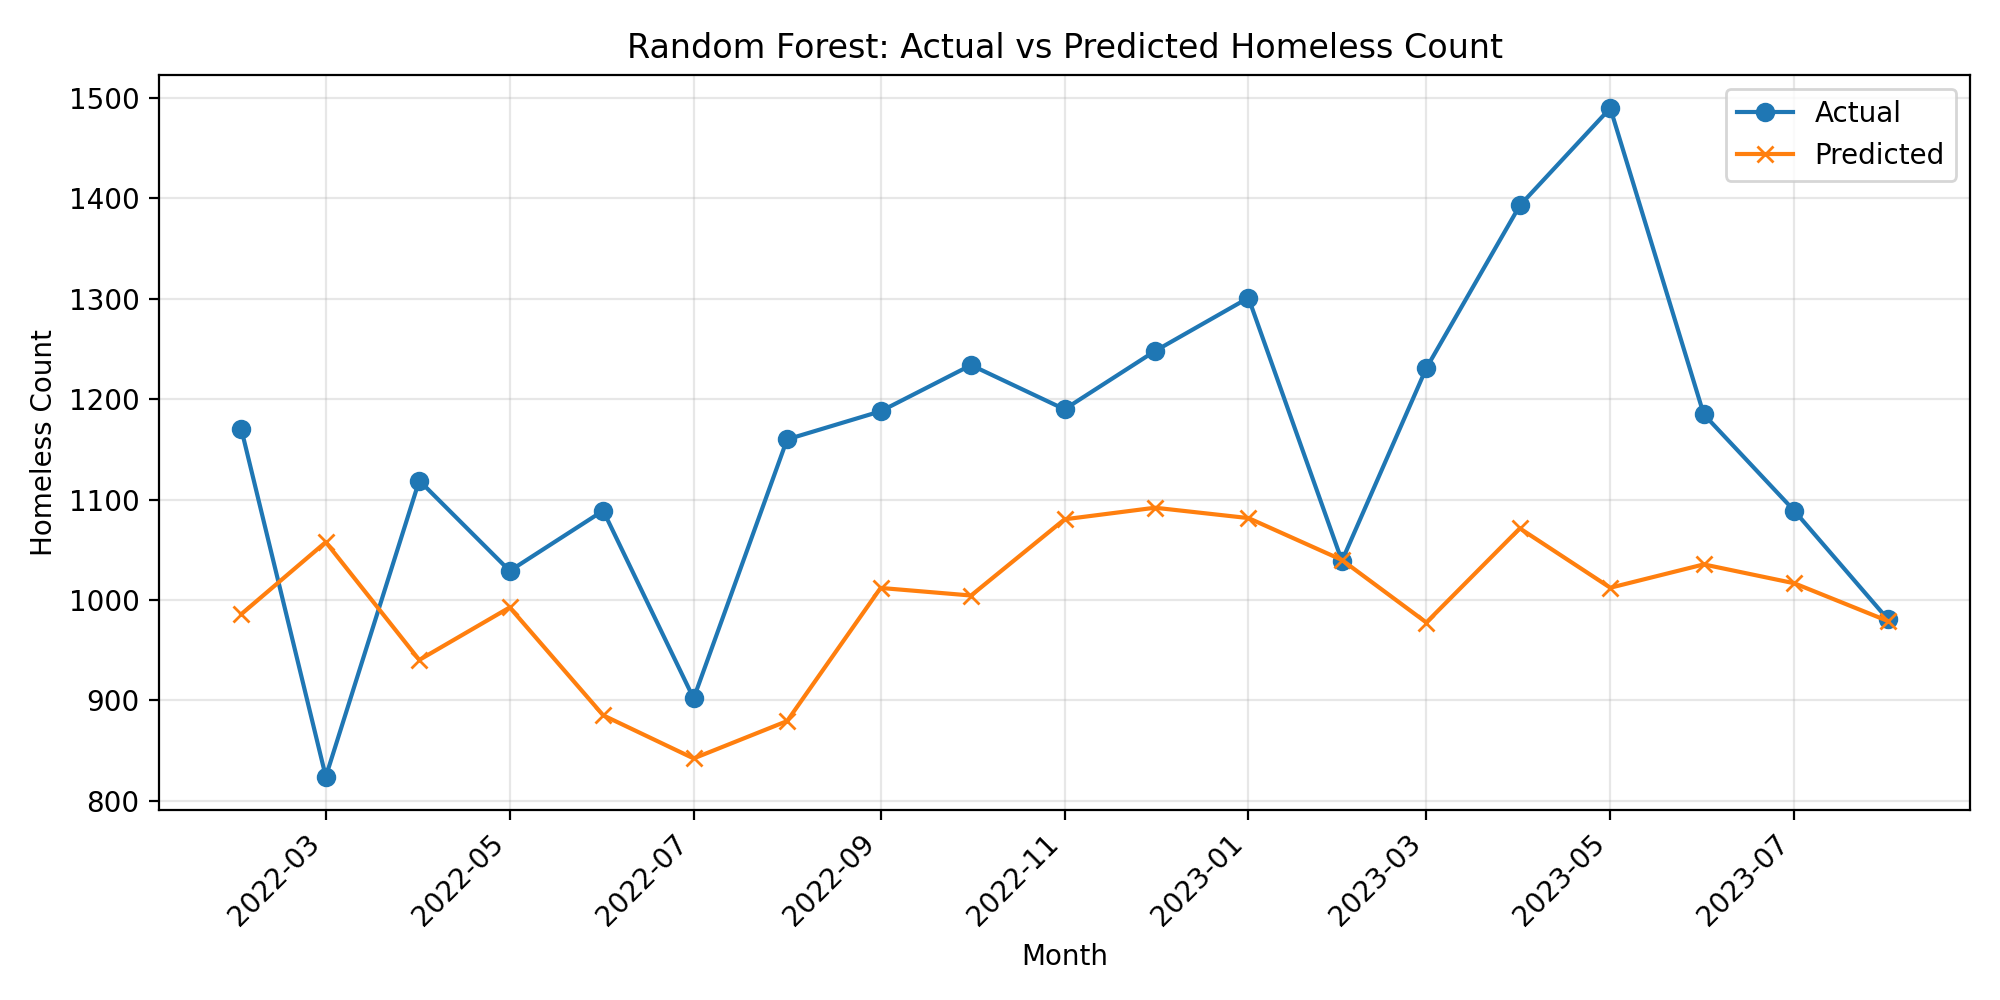
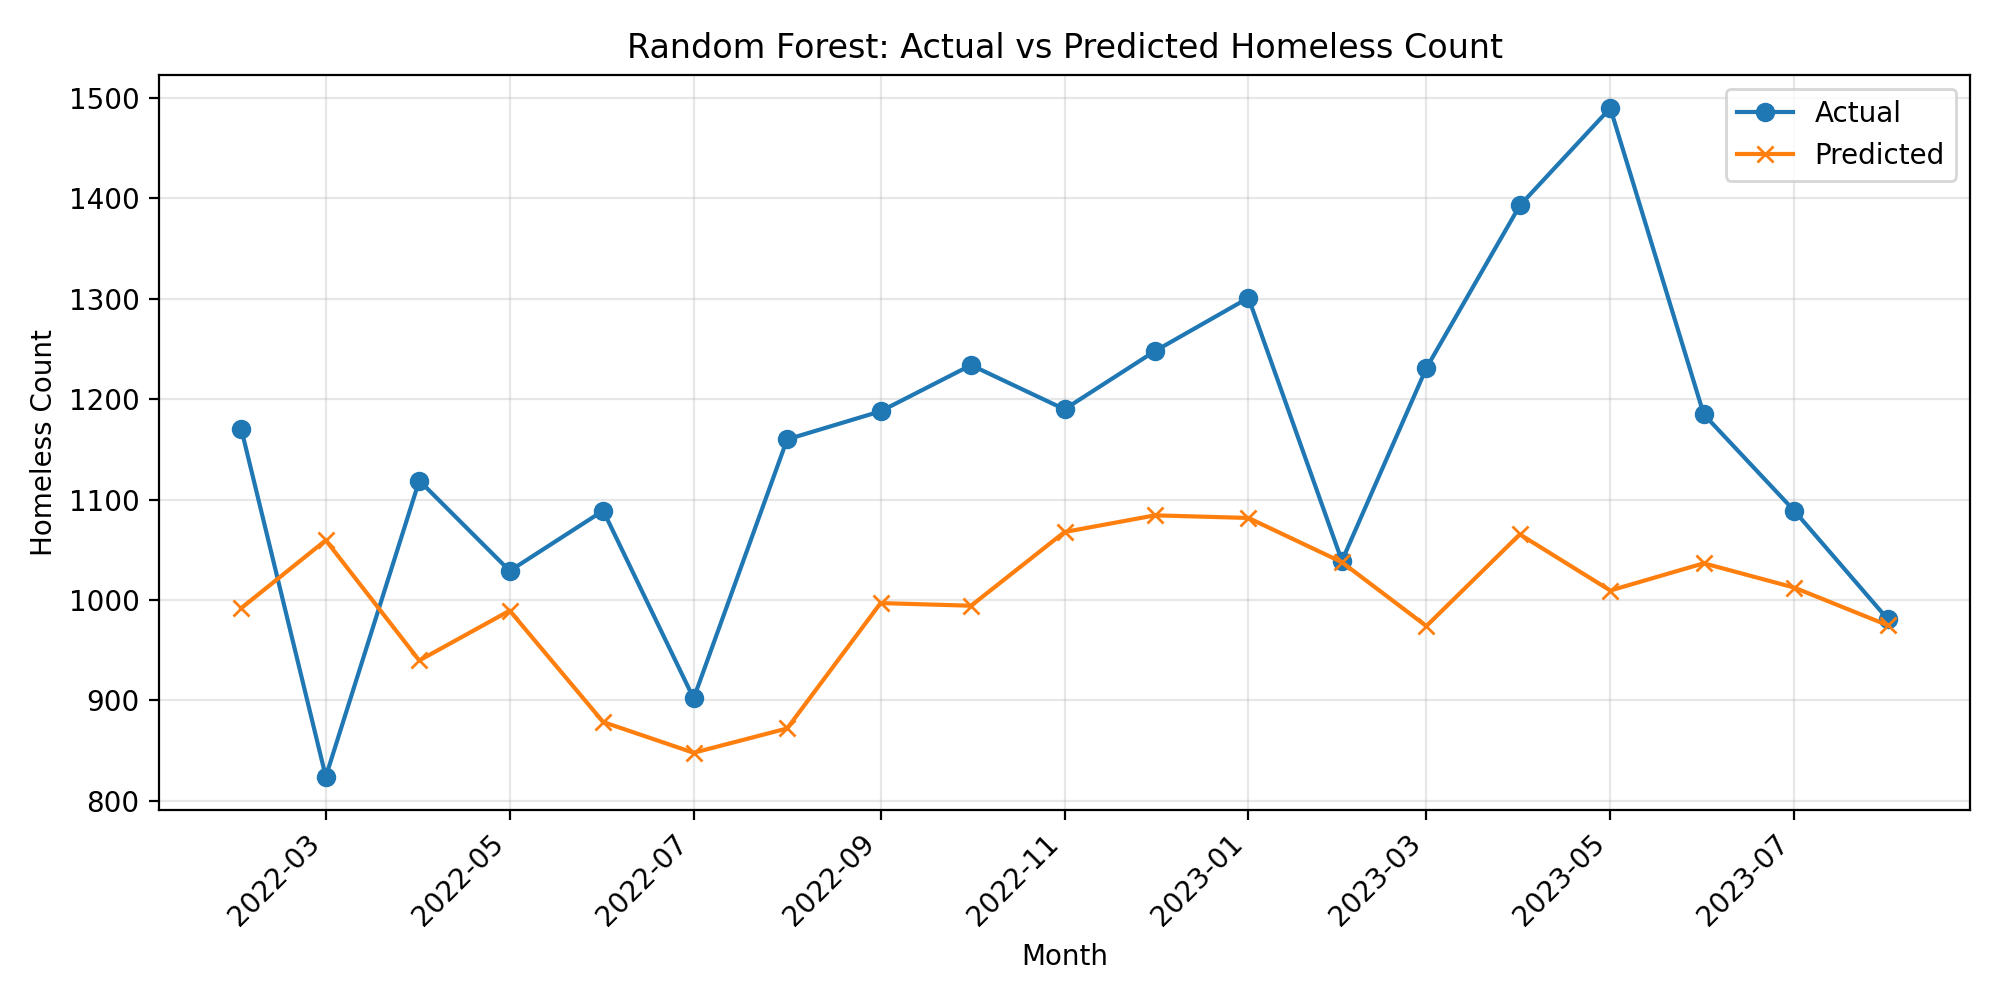
Added covid flag

diff --git a/random_forest_model.py b/random_forest_model.py
@@ -42,6 +42,13 @@ def prepare_dataframe(path: Path) -> pd.DataFrame:
     df = df.sort_values("year_month").reset_index(drop=True)
     if "homeless_count" not in df.columns:
         raise ValueError("Input data must include homeless_count column.")
+    full_range = pd.date_range(df["year_month"].min(), df["year_month"].max(), freq="MS")
+    df = (
+        df.set_index("year_month")
+        .reindex(full_range)
+        .rename_axis("year_month")
+        .reset_index()
+    )
 
     numeric_cols = [
         "homeless_count",
@@ -67,6 +74,17 @@ def prepare_dataframe(path: Path) -> pd.DataFrame:
         if col in df.columns:
             df[col] = df[col].interpolate(method="linear", limit_direction="both").ffill().bfill()
 
+    covid_present = "covid" in df.columns
+    if covid_present:
+        df["covid"] = pd.to_numeric(df["covid"], errors="coerce")
+        df["covid"] = df["covid"].ffill().bfill().fillna(0)
+        df["covid_flag_current"] = (df["covid"] >= 0.5).astype(int)
+        df["covid_flag_lag1"] = df["covid_flag_current"].shift(1)
+        df["covid_flag_lag3"] = df["covid_flag_current"].shift(3)
+        df["covid_flag_roll3"] = (
+            df["covid_flag_current"].rolling(window=3, min_periods=1).mean().shift(1)
+        )
+
     if len(df) < 104:
         raise ValueError("Need at least 104 months of data before creating lags.")
     df = df.iloc[-104:].reset_index(drop=True)
@@ -88,6 +106,14 @@ def prepare_dataframe(path: Path) -> pd.DataFrame:
         "unemployment_rate_lag1",
         "evictions_lag1",
     ]
+    if "covid_flag_lag1" in df.columns:
+        lag_cols.extend(
+            [
+                "covid_flag_lag1",
+                "covid_flag_lag3",
+                "covid_flag_roll3",
+            ]
+        )
     for col in lag_cols:
         if col in df.columns:
             first_valid = df[col].first_valid_index()
@@ -146,6 +172,15 @@ def main() -> None:
         "unemployment_rate_lag1",
         "evictions_lag1",
     ]
+    if "covid_flag_current" in df.columns:
+        feature_cols.extend(
+            [
+                "covid_flag_current",
+                "covid_flag_lag1",
+                "covid_flag_lag3",
+                "covid_flag_roll3",
+            ]
+        )
     X = df[feature_cols]
     y = df["homeless_count"]
     dates = df["year_month"]
